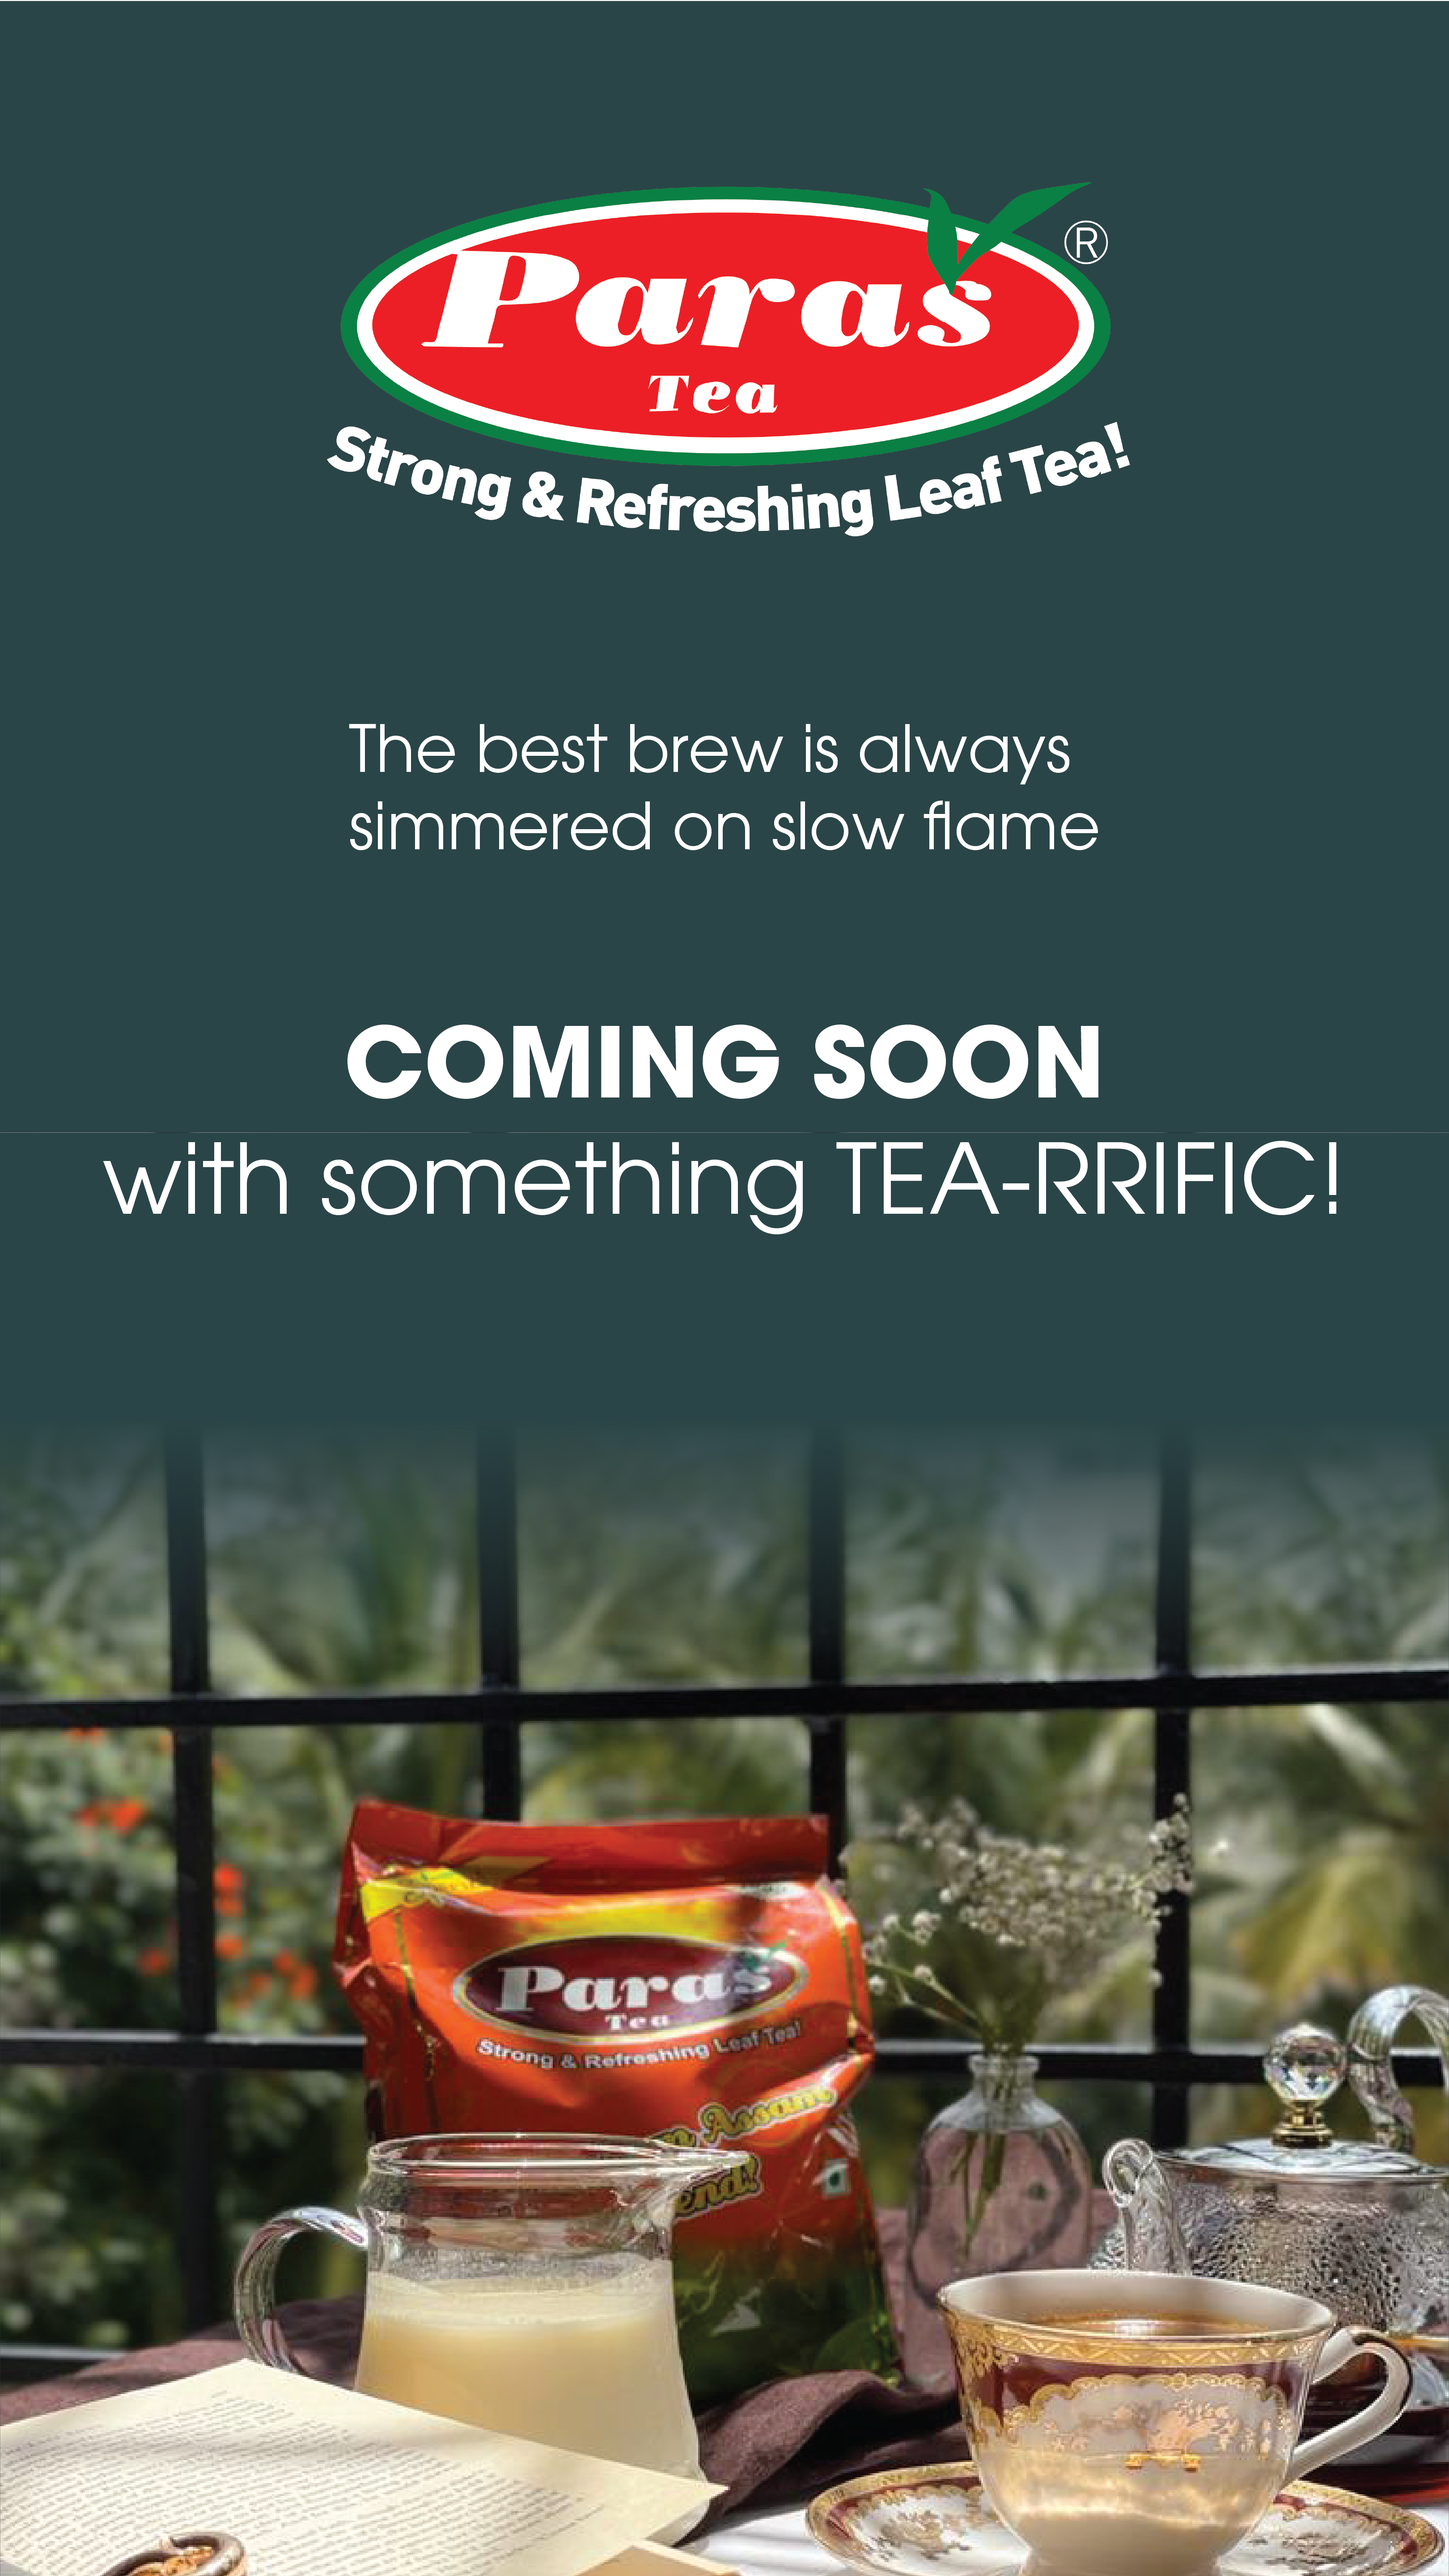
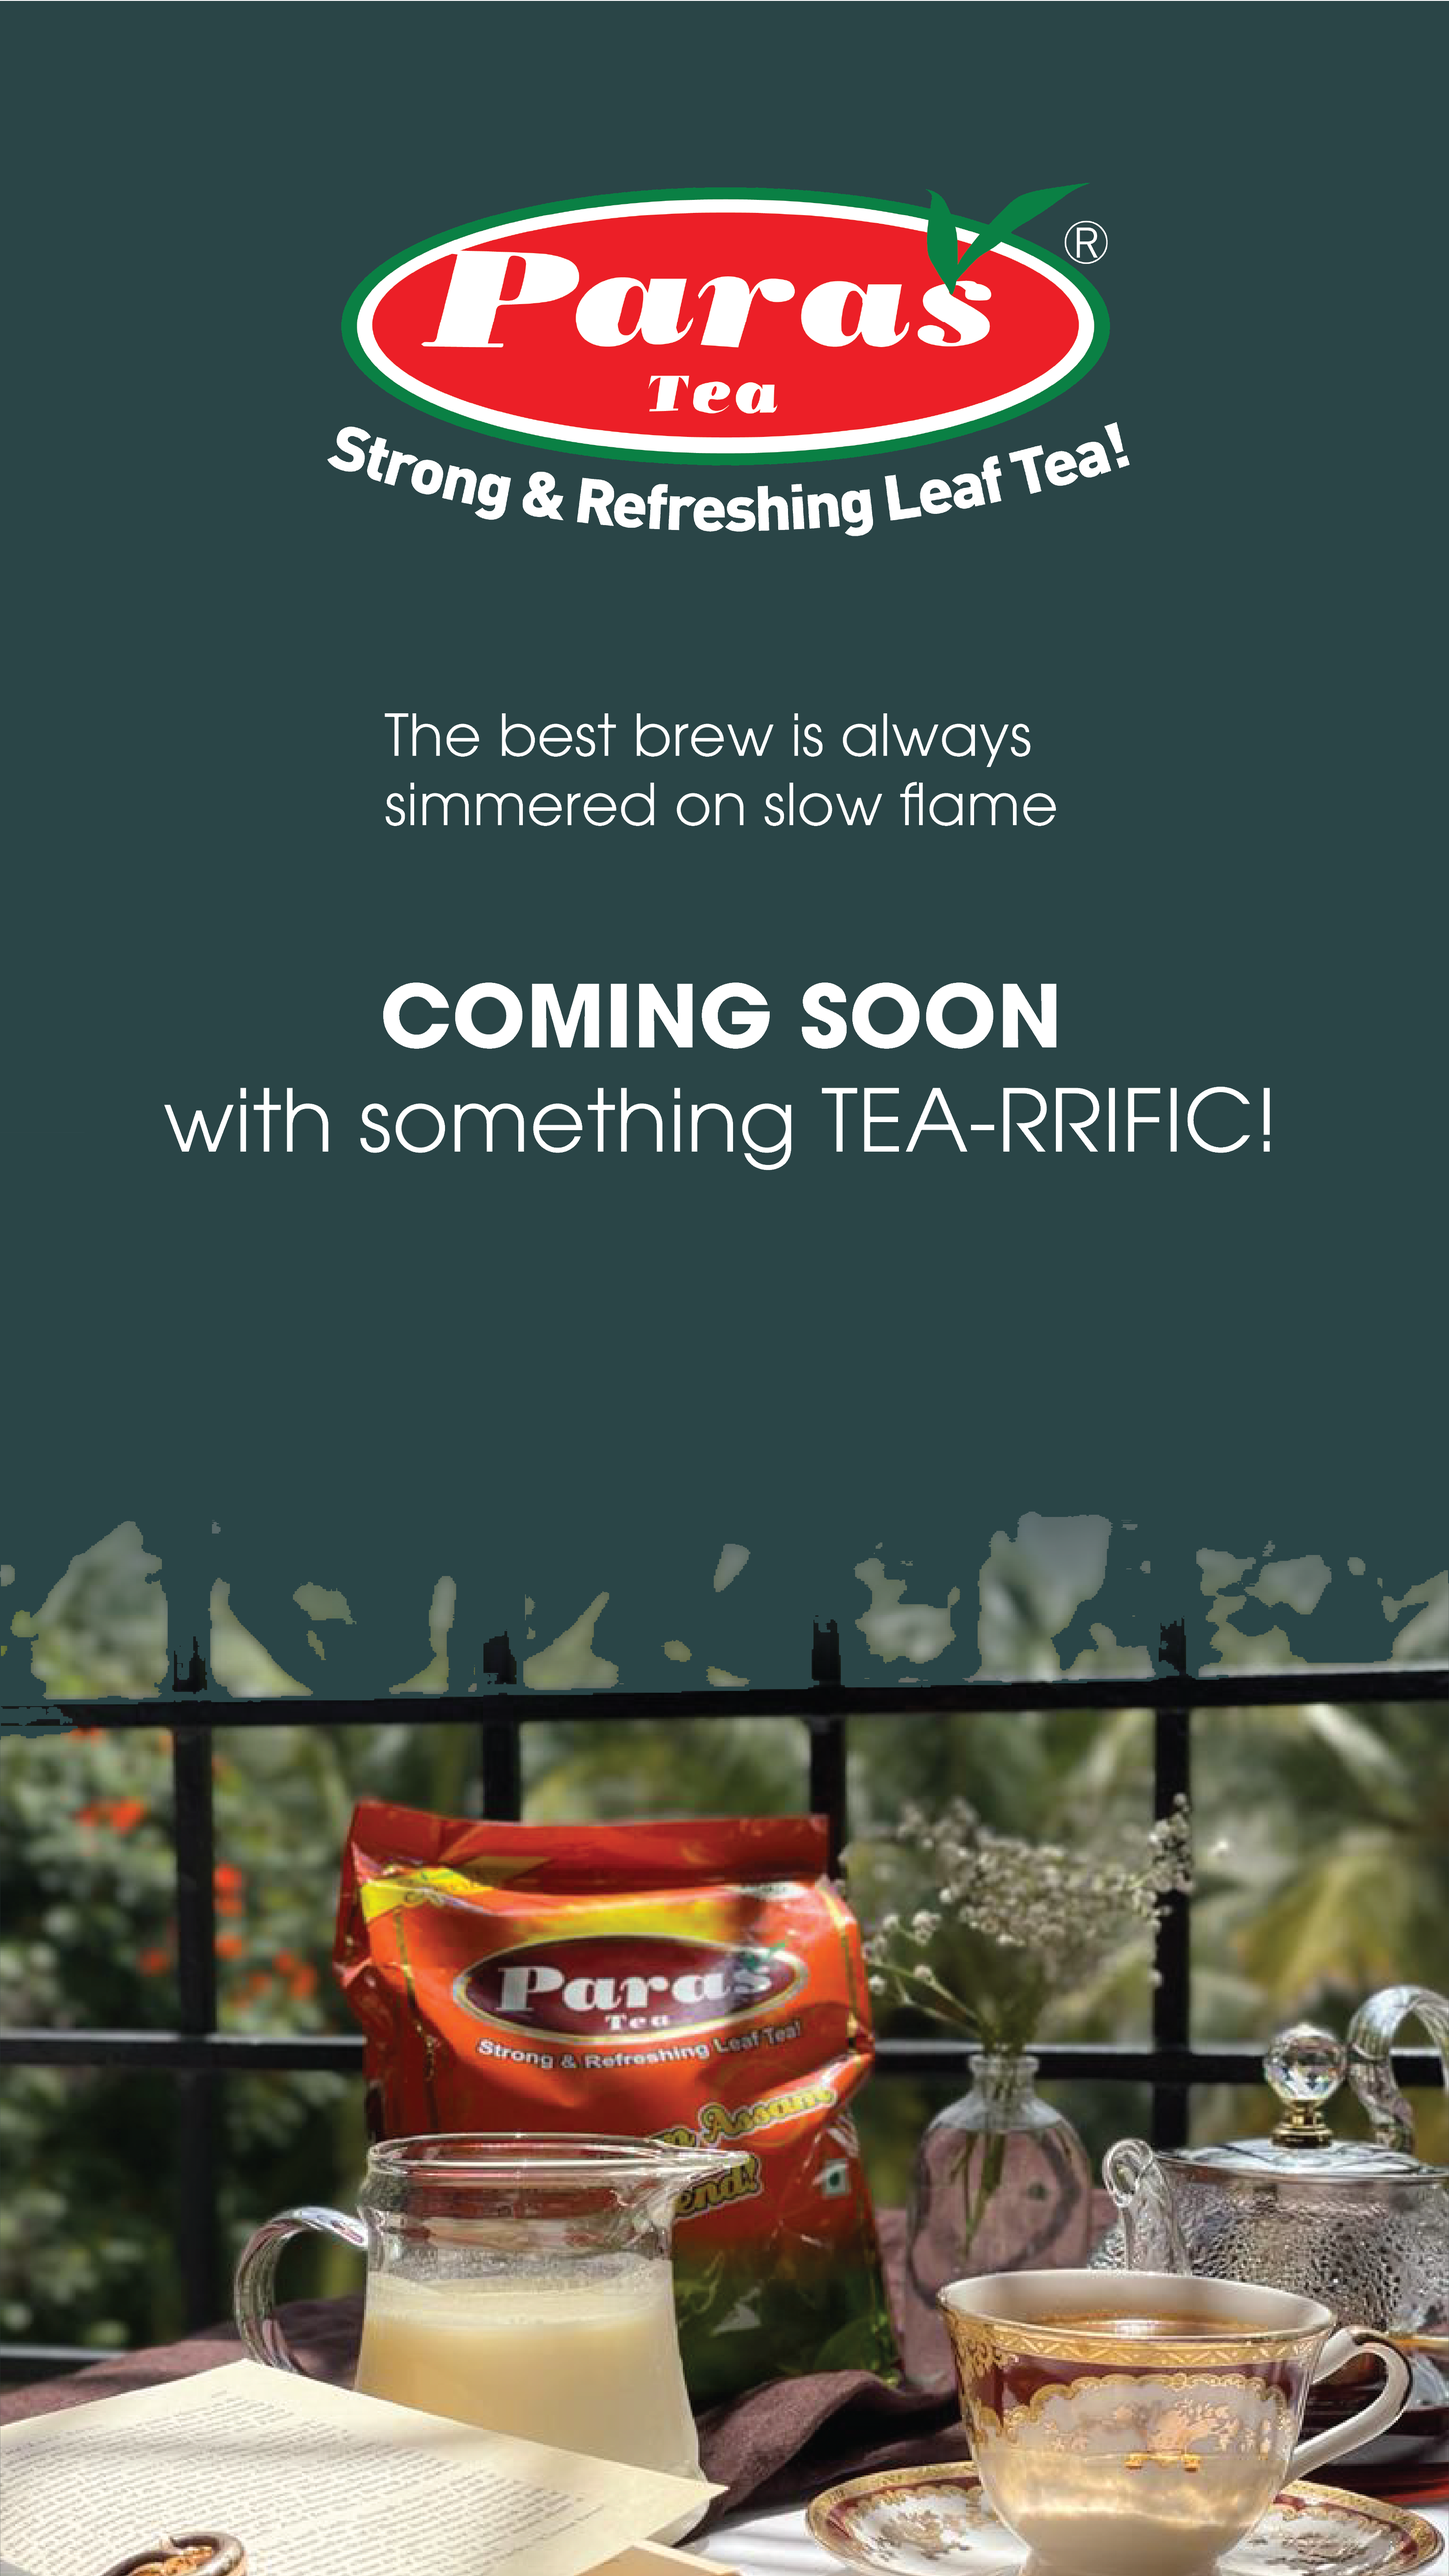
img changes to background image with sover fit

Changed region(s): [[0.0, 0.5625, 1.0, 0.6875], [0.0623, 0.375, 0.9352, 0.5], [0.2494, 0.2812, 0.7481, 0.3438]]

diff --git a/index.html b/index.html
@@ -5,10 +5,27 @@
     <meta name="viewport" content="width=device-width, initial-scale=1, shrink-to-fit=no">
     <link rel="stylesheet" href="https://stackpath.bootstrapcdn.com/bootstrap/4.3.1/css/bootstrap.min.css" integrity="sha384-ggOyR0iXCbMQv3Xipma34MD+dH/1fQ784/j6cY/iJTQUOhcWr7x9JvoRxT2MZw1T" crossorigin="anonymous">
     <title>Paras Tea | Coming Soon</title>
+    <style>
+      body, html {
+        height: 100%;
+      }
+      .bg {
+        background-image: url("paras-desktop.png");
+        width: 100%;
+        background-position: center;
+        background-repeat: no-repeat;
+        background-size: cover;
+      }
+      @media screen and (max-width: 600px) {
+        .bg {
+          background-image: url("paras-phone.png");
+          width: 100% !important;
+          background-size: cover;
+        }
+      }
+    </style>
   </head>
-  <body style="overflow: hidden">
-    <img class="d-none d-lg-block" src="paras-desktop.png" alt="" style="width: 100%; height: 100%">
-    <img class="d-block d-lg-none" src="paras-phone.png" alt="" style="width: 100%; height: 100%">
+  <body class="bg">
     <script src="https://code.jquery.com/jquery-3.3.1.slim.min.js" integrity="sha384-q8i/X+965DzO0rT7abK41JStQIAqVgRVzpbzo5smXKp4YfRvH+8abtTE1Pi6jizo" crossorigin="anonymous"></script>
     <script src="https://cdnjs.cloudflare.com/ajax/libs/popper.js/1.14.7/umd/popper.min.js" integrity="sha384-UO2eT0CpHqdSJQ6hJty5KVphtPhzWj9WO1clHTMGa3JDZwrnQq4sF86dIHNDz0W1" crossorigin="anonymous"></script>
     <script src="https://stackpath.bootstrapcdn.com/bootstrap/4.3.1/js/bootstrap.min.js" integrity="sha384-JjSmVgyd0p3pXB1rRibZUAYoIIy6OrQ6VrjIEaFf/nJGzIxFDsf4x0xIM+B07jRM" crossorigin="anonymous"></script>
